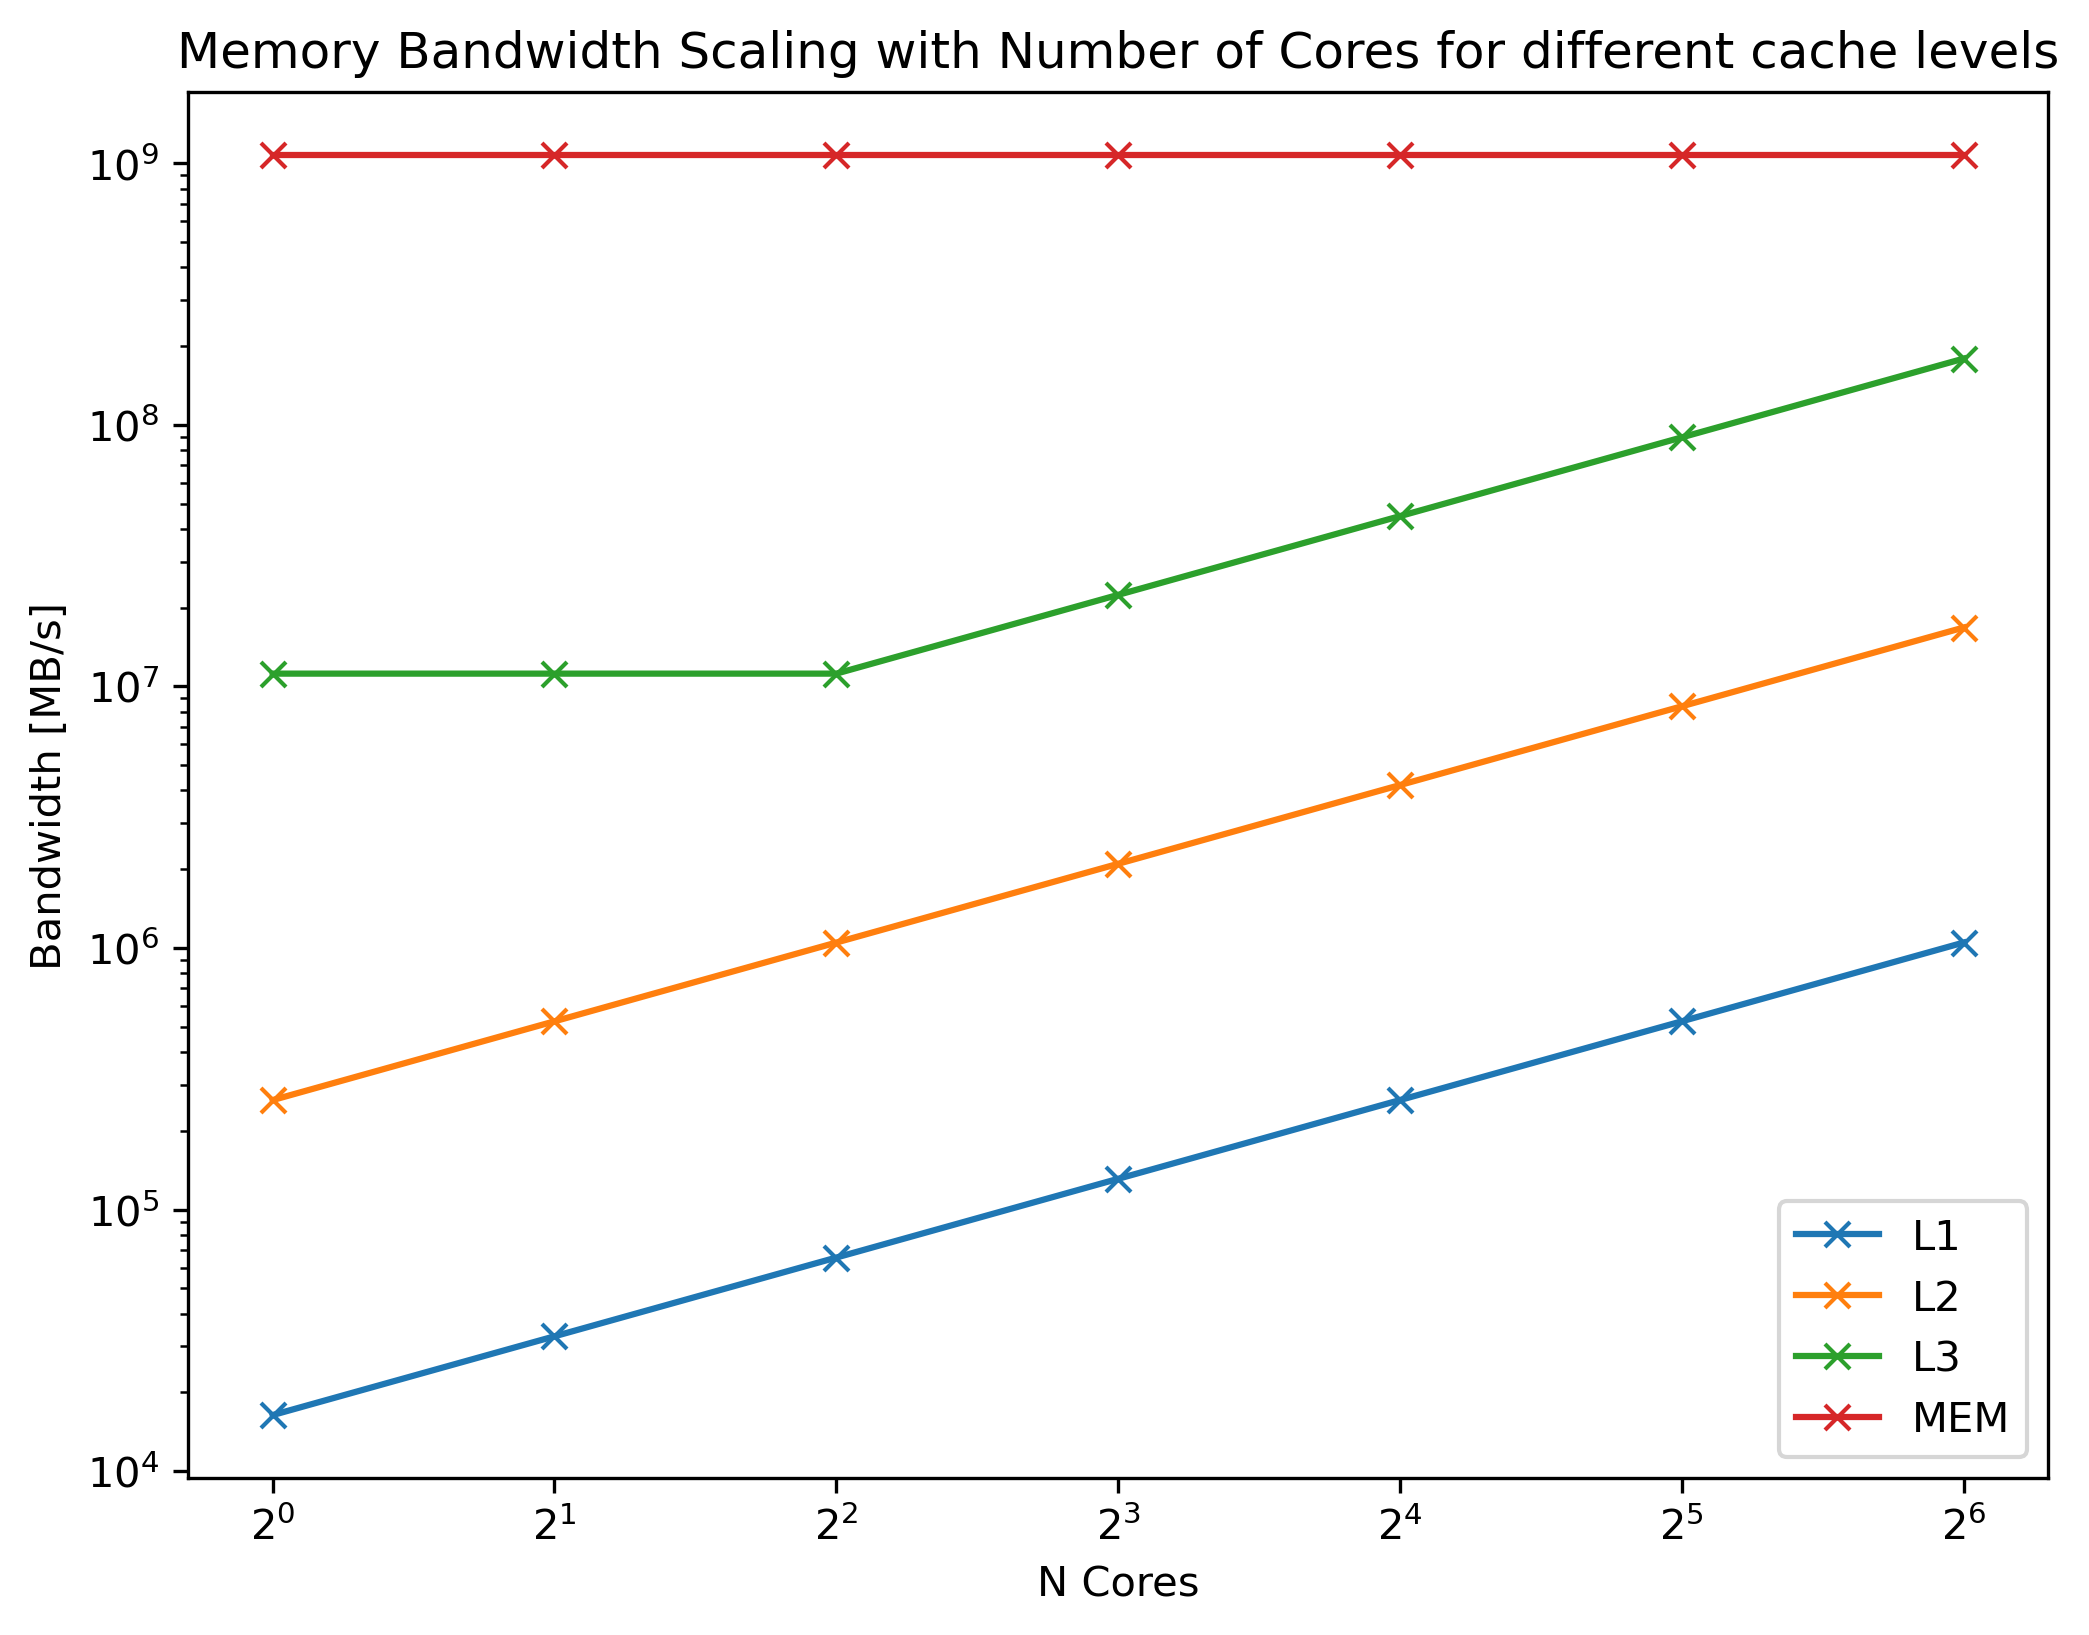
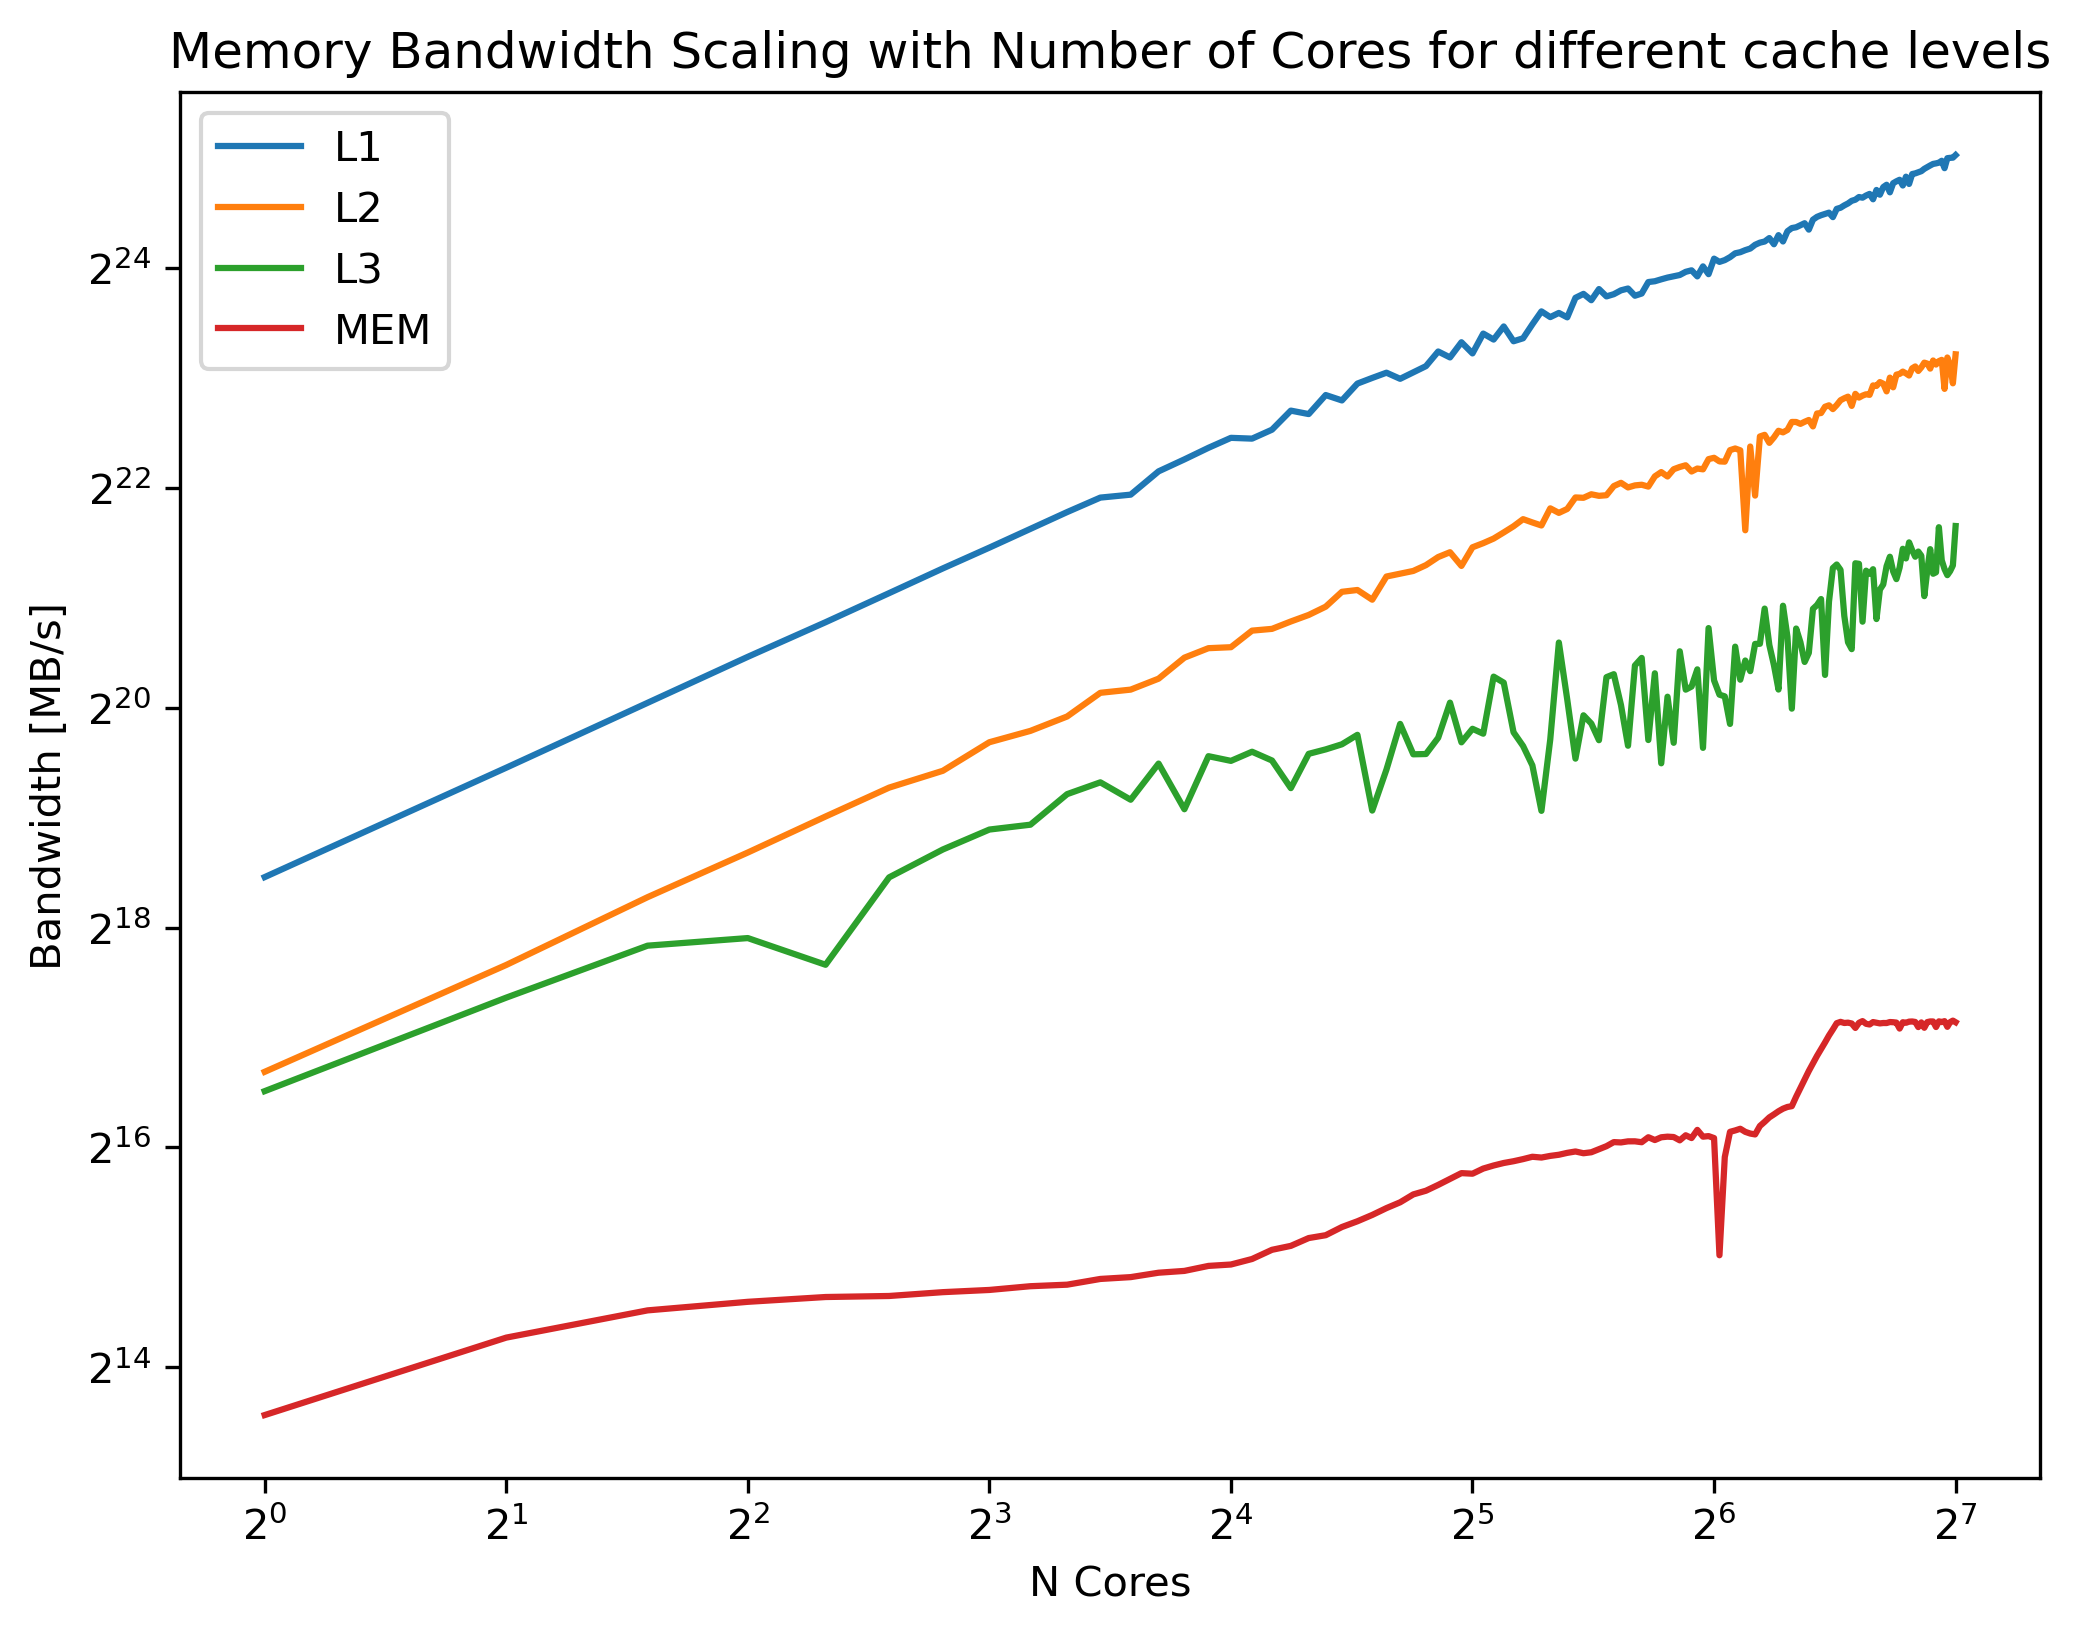
scaling plot

diff --git a/exercise_3/plot.py b/exercise_3/plot.py
@@ -8,12 +8,13 @@ fig,ax = plt.subplots(1,1,figsize=(8,6))
 ax.set_xlabel("N Cores")
 ax.set_ylabel("Bandwidth [MB/s]")
 ax.set_title("Memory Bandwidth Scaling with Number of Cores for different cache levels")
-ax.set_yscale("log")
+ax.set_yscale("log", base=2)
 ax.set_xscale("log", base=2)
 for file in files:
-    data = pd.read_csv(file, delim_whitespace=True, header=None, names=["Cores","Bandwidth"])
+    filepath = "data/"+file
+    data = pd.read_csv(filepath, delim_whitespace=True, header=None, names=["Cores","Bandwidth"])
     level = file.split(".")[0]
-    ax.plot(data["Cores"], data["Bandwidth"], marker='x', label=level)
+    ax.plot(data["Cores"], data["Bandwidth"], marker='', label=level)
 ax.legend()
 plt.savefig("memory_bandwidth_scaling.png", dpi=300, bbox_inches="tight")
 plt.close()
